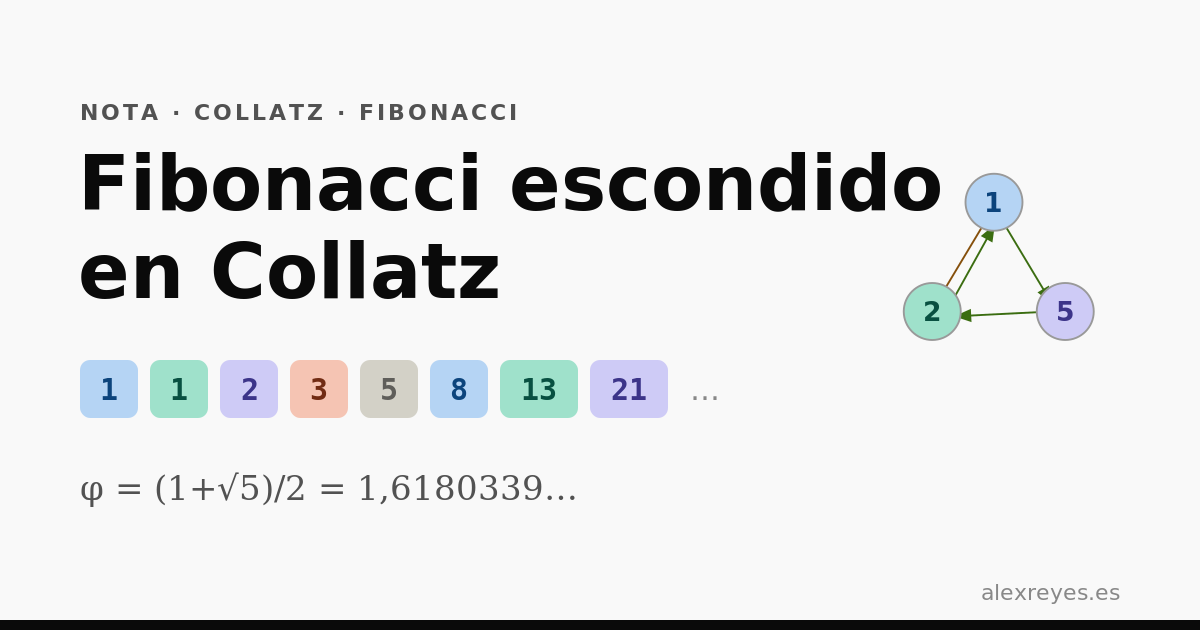
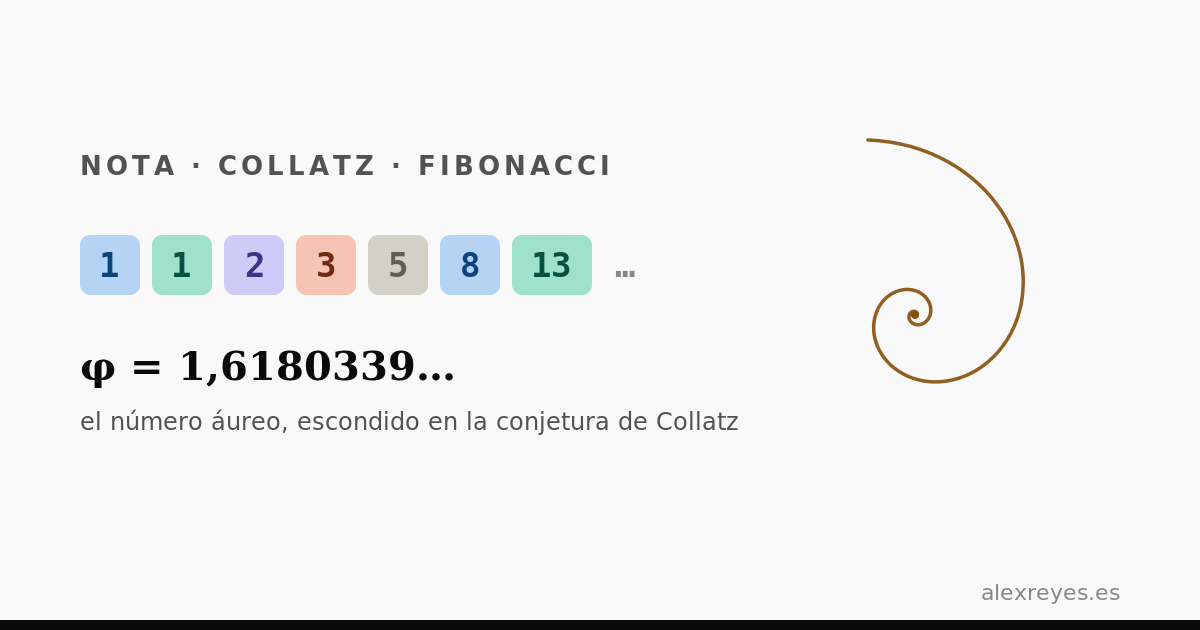
k

diff --git a/notas/fibonacci-collatz/index.html b/notas/fibonacci-collatz/index.html
@@ -23,13 +23,11 @@
 <meta property="og:url" content="https://alexreyes.es/notas/fibonacci-collatz/">
 <meta property="og:title" content="Fibonacci escondido en Collatz">
 <meta property="og:description" content="Cómo los números de Fibonacci aparecen, sin que nadie los invitara, dentro de la conjetura de Collatz.">
-<meta property="og:image" content="https://alexreyes.es/notas/fibonacci-collatz/portada.png">
 <meta property="og:locale" content="es_ES">
 <meta property="og:site_name" content="alexreyes.es">
-<meta name="twitter:card" content="summary_large_image">
+<meta name="twitter:card" content="summary">
 <meta name="twitter:title" content="Fibonacci escondido en Collatz">
 <meta name="twitter:description" content="Cómo los números de Fibonacci aparecen, sin que nadie los invitara, dentro de la conjetura de Collatz.">
-<meta name="twitter:image" content="https://alexreyes.es/notas/fibonacci-collatz/portada.png">
 <style>
   :root{
     --bg:#ffffff; --bg-subtle:#f9f9f9; --bg-hover:#f4f4f4;
